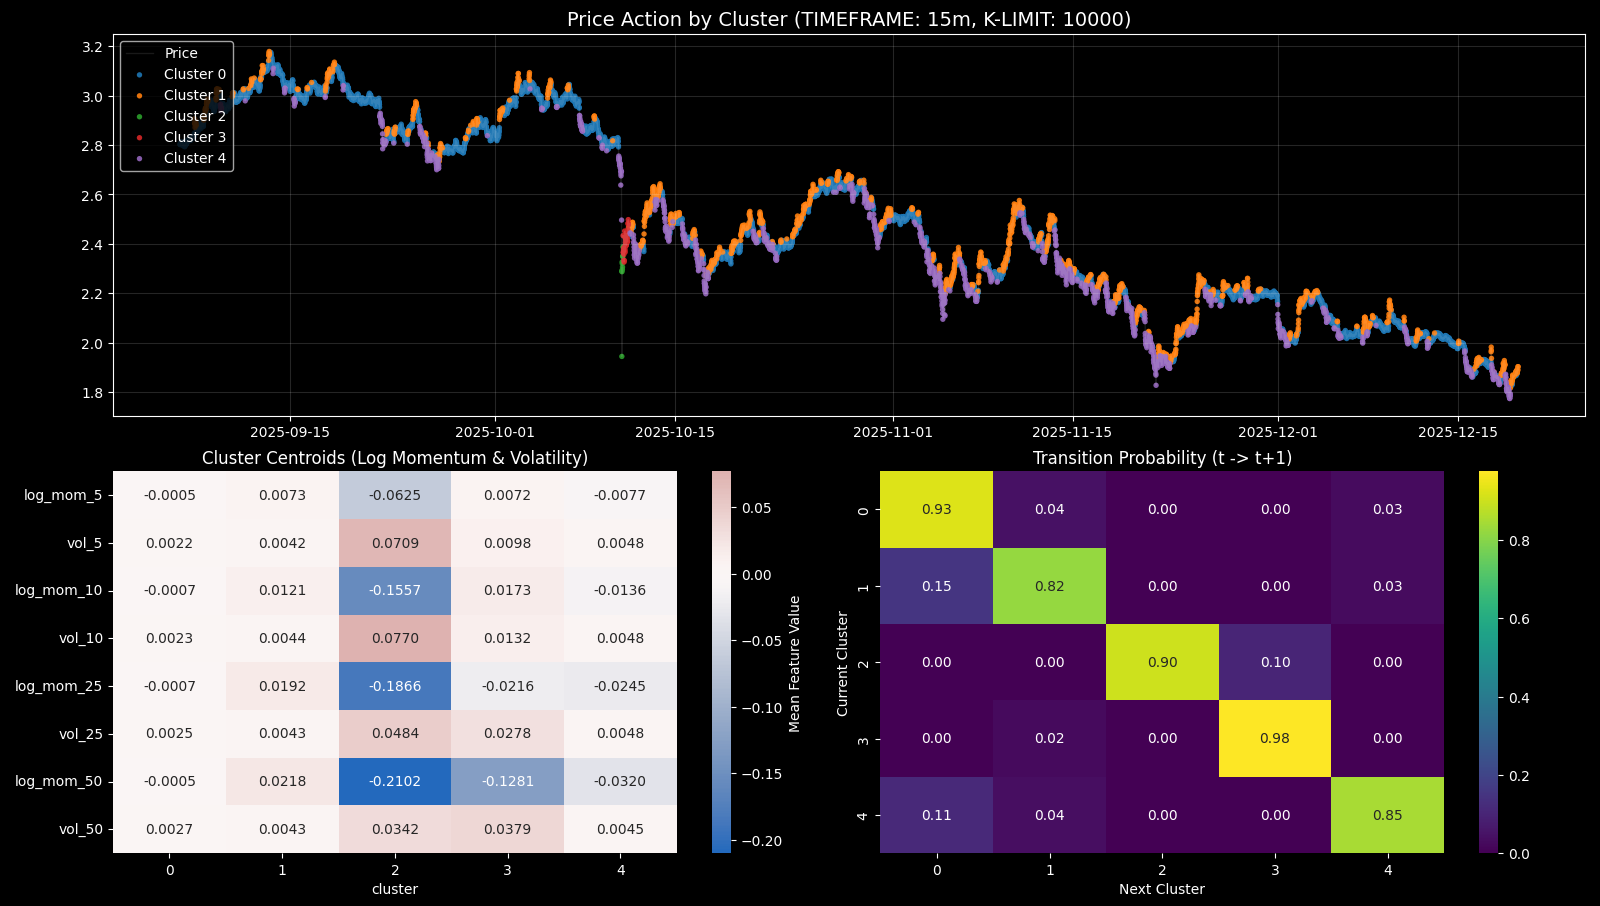
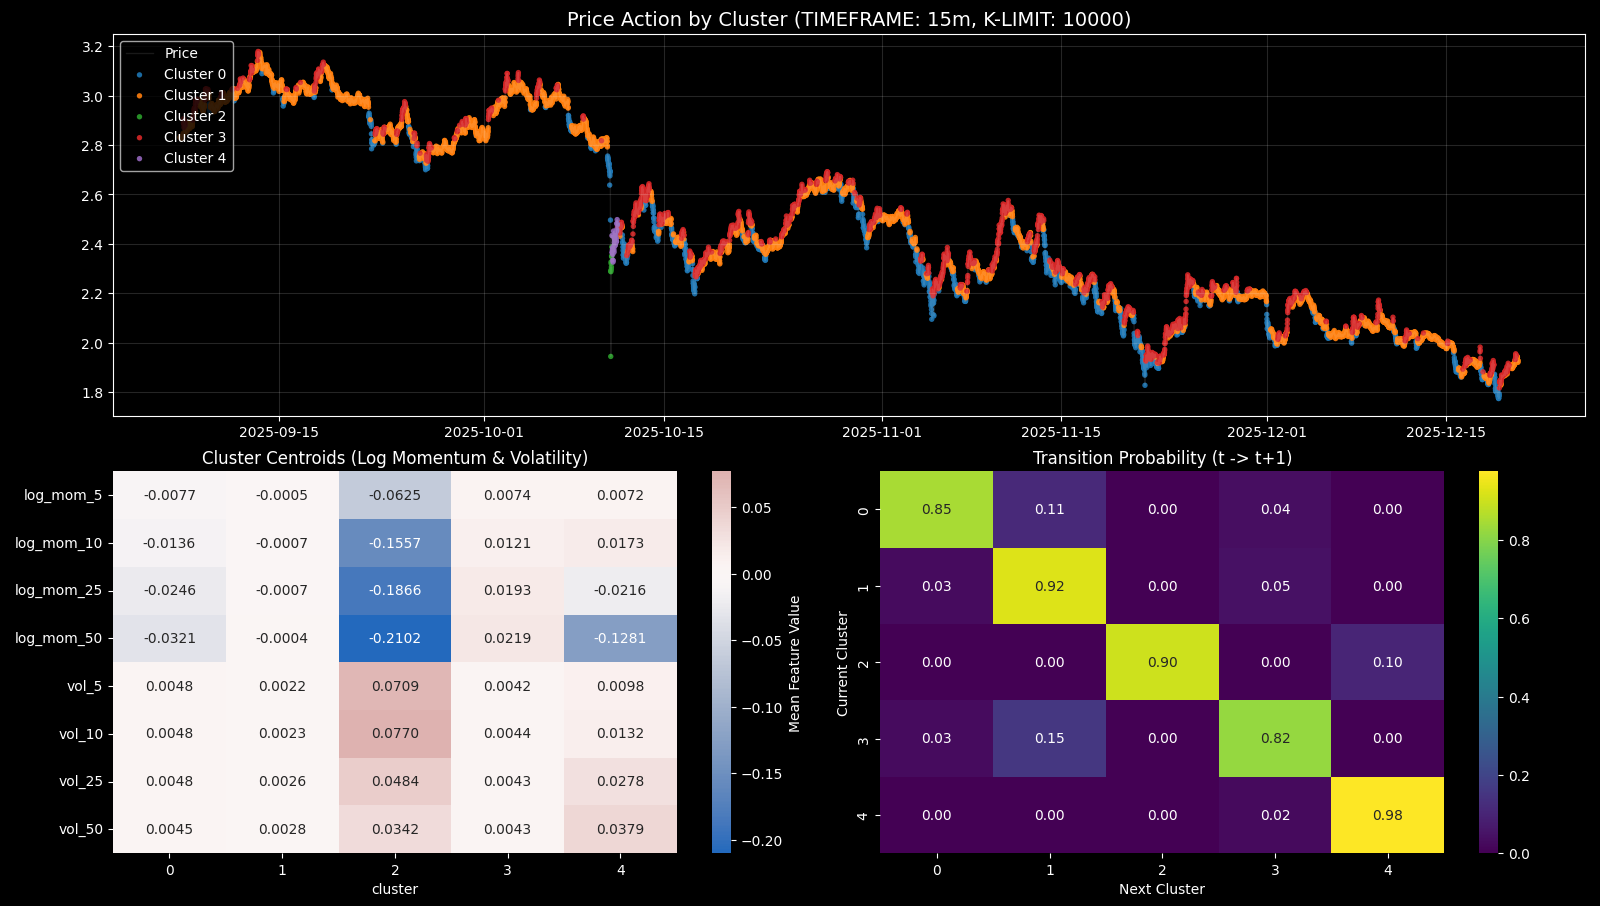
聚类图片调整

diff --git a/backtest/kmeans.py b/backtest/kmeans.py
@@ -11,7 +11,7 @@ import time
 # 1. 配置区域 (User Configuration)
 # ==========================================
 SYMBOL = 'XRP/USDT'  # 交易对
-TIMEFRAME = '1h'  # K线周期, 主要分析15m和1h
+TIMEFRAME = '15m'  # K线周期, 主要分析15m和1h
 LIMIT = 10000  # 拉取K线数量
 WINDOWS = [5, 10, 25, 50]  # 特征窗口 T
 N_CLUSTERS = 5  # 聚类数量 K
@@ -153,7 +153,13 @@ def plot_results_custom(df, transition_probs, n_clusters):
 
     # --- 图 2: 特征热力图 ---
     ax2 = fig.add_subplot(gs[1, 0])
-    feature_cols = df.columns[df.columns.str.contains('mom_|vol_')]
+    # 1. 分别筛选出 mom_ 和 vol_ 开头的列
+    mom_cols = df.columns[df.columns.str.contains('mom_')]
+    vol_cols = df.columns[df.columns.str.contains('vol_')]
+    # 2. 使用 np.r_ 按顺序连接两个列表
+    feature_cols = np.r_[mom_cols, vol_cols]
+    # 3. 转换为 Pandas Index 对象，以保持一致性
+    feature_cols = pd.Index(feature_cols)
     cluster_means = df.groupby('cluster')[feature_cols].mean()
 
     # 因为对数动量均值通常接近0，这里使用 'vlag' (红蓝)